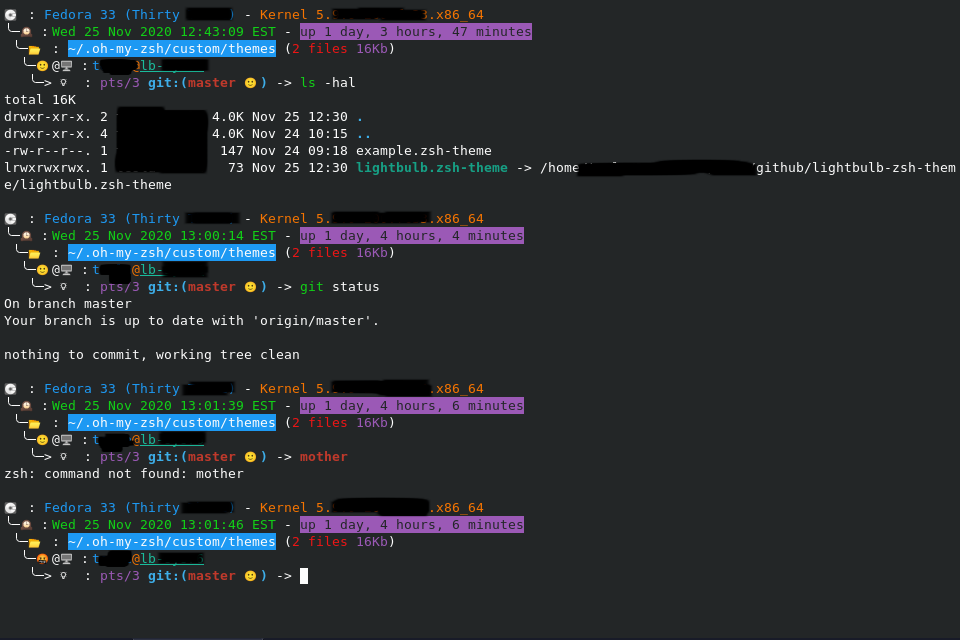
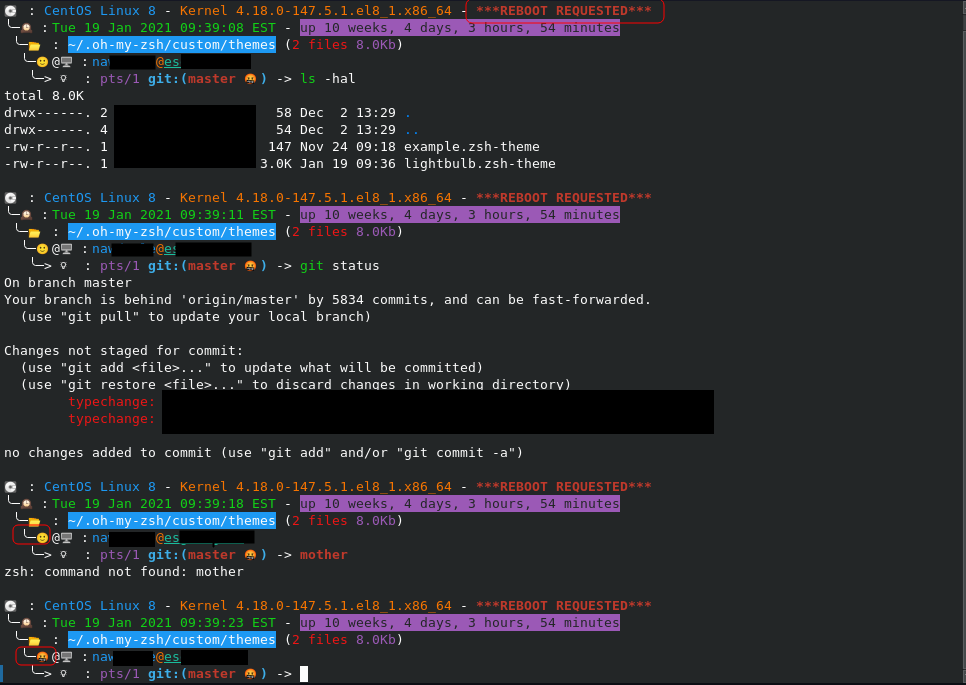
Update to README and screenshots

Changed region(s): [[0.0, 0.0, 1.0, 1.0], [0.5938, 0.4062, 0.6562, 0.4688]]

diff --git a/README.md b/README.md
@@ -2,25 +2,29 @@
 
 A ZSH theme that displays the following:
 
-- 💽: <span style="color:blue">OS</span> - <span style="color:yellow">Kernel Information</span>[ - <span style="color:red">\*\*\*REBOOT REQUESTED\*\*\*</span>]
+- 💽: <span style="color:blue">OS</span> - <span style="color:yellow">Kernel Information</span>[ - **<span style="color:red">\*\*\*REBOOT REQUESTED\*\*\*</span>**]
 - ╰─🕰: <span style="color:green">Datetime</span> - **<span style="color:magenta">Uptime</span>**
 - ╰──📂: **<span style="color:cyan">Current directory</span>** (<span style="color:red">Number of files</span> and <span style="color:magenta">total size</span>)
 -  ╰───🙂|🤬@🖥: Job status(Good|Bad) <span style="color:blue">username</span><span style="color:red">@</span><span style="color:cyan"><ins>hostname</ins></span>
 -  ╰────>💡: <span style="color:magenta">TTY</span> **<span style="color:blue">git:(</span>status<span style="color:blue">)</span>** ->
 
 ## Sample Screenshot
-A **poorly executed** redacted example looks like this:
+A redacted example looks like this (**Job Status** changes and **\*\*\*REBOOT REQUESTED\*\*\*** are circled):
 
 ![Screenshot](screenshot.png)
 
-## New feature
+## New feature - Reboot Notification!!
 
-This will now let you know if you open a terminal that a reboot is requested. The reboot checker for CentOS/Fedora depends on yum-utils/dnf-utils. Ubuntu checks for /var/run/reboot-required.
+This will now let you know if you open a terminal that a reboot is requested.
+  This is only checked on first launch of the terminal.
+  The reboot check function for CentOS/Fedora depends on `yum-utils` or `dnf-utils`.
+  Ubuntu checks for `/var/run/reboot-required`.
 
 ## Worth mentioning
 
 I'm new to ZSH and only started using it because [Kali Linux](https://www.kali.org/news/kali-linux-2020-3-release/) decided to go that route and I wanted to see what all the hubbub was about.
   I set up this theme based on how I had my bash prompt set up.
-  I've tested on Fedora and CentOS which is what I mainly use. Ubuntu seems to work as well.
+  I've tested on Fedora and CentOS which is what I mainly use.
+  Ubuntu seems to work as well although it is not as extensively tested.
 
 Enjoy 🙂 (or not 🤬)!! 💡
